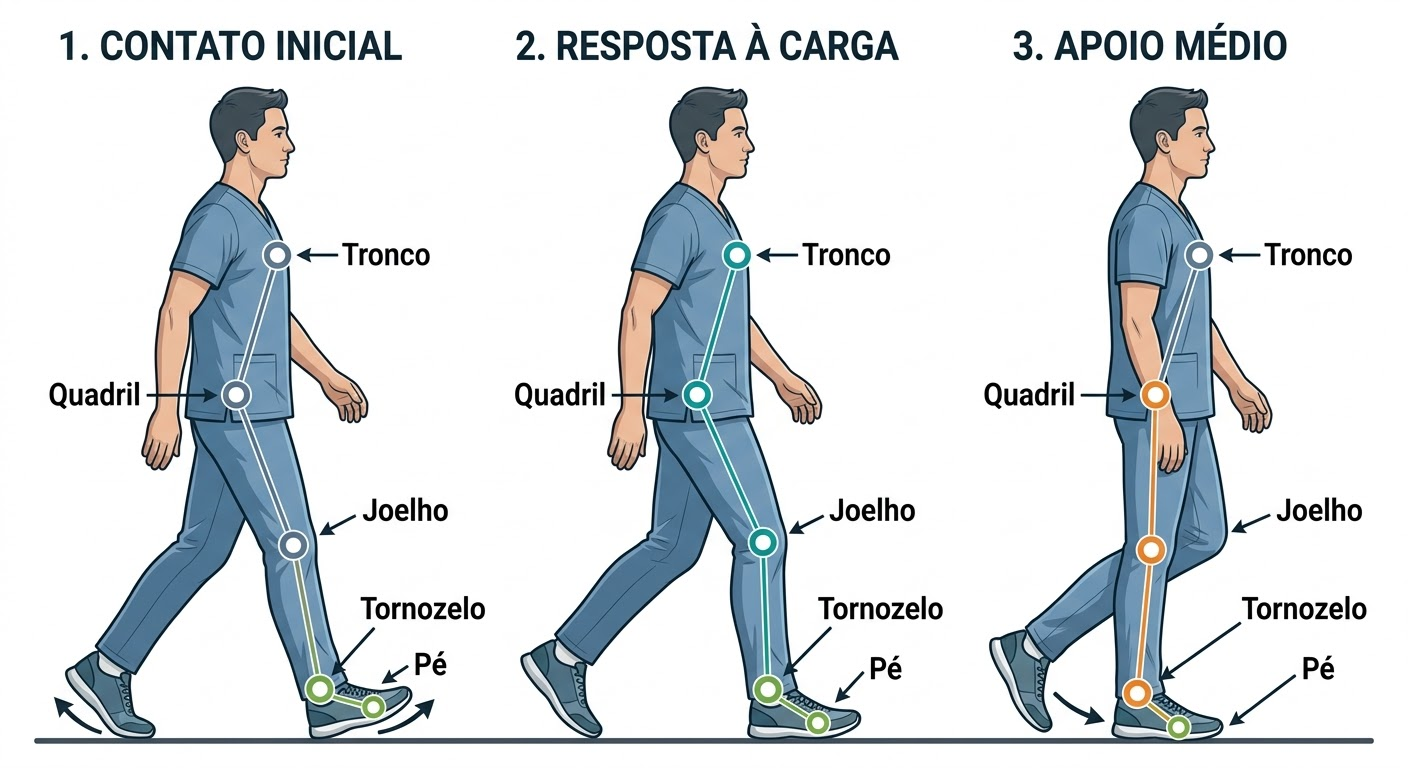
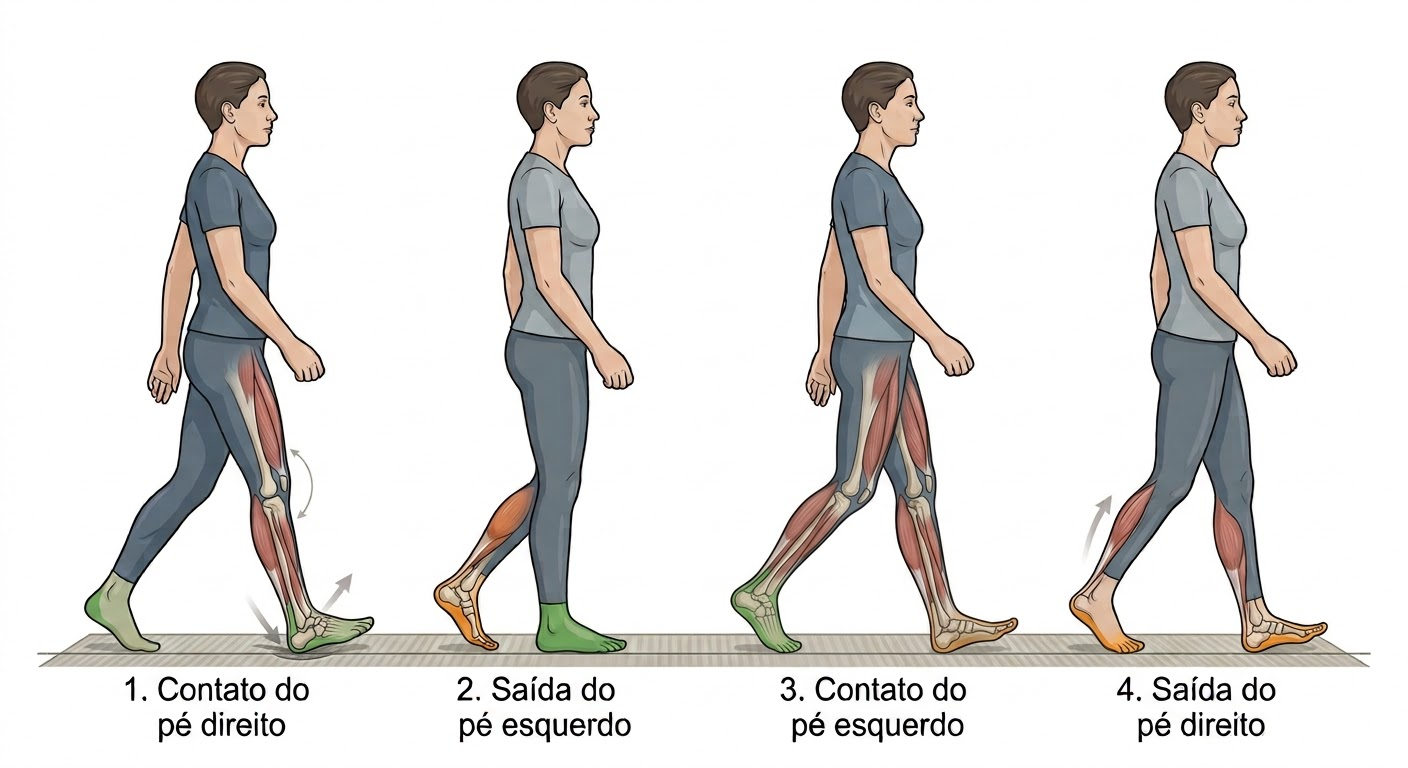
marcha: quatro eventos, parametros temporais e nova imagem de referencia

diff --git a/src/screens/VideoEditScreen.tsx b/src/screens/VideoEditScreen.tsx
@@ -11,7 +11,7 @@ import { Observacao } from '../services/observacoes';
 import MarcadorComLupa from '../components/MarcadorComLupa';
 import * as VideoThumbnails from 'expo-video-thumbnails';
 import { FASES_MARCHA, PONTOS_FASE } from '../constants/fasesMarcha';
-import { calcularFase, PontosFase } from '../services/marchaCalculations';
+import { calcularFase, calcularParametrosTemporais, PontosFase } from '../services/marchaCalculations';
 
 const VIDEO_HEIGHT = Dimensions.get('window').height * 0.38;
 const VIDEO_WIDTH = Dimensions.get('window').width - 32;
@@ -197,6 +197,7 @@ export default function VideoEditScreen({ route, navigation }: any) {
   // Referencia da area do video, usada para capturar o frame com as marcacoes
   const areaVideoRef = React.useRef<any>(null);
   const [framesFases, setFramesFases] = useState<Record<string, string>>({});
+  const [temposFases, setTemposFases] = useState<Record<string, number>>({});
 
   const confirmarFase = async () => {
     // Captura o frame atual do video com os pontos e linhas ja desenhados,
@@ -215,6 +216,9 @@ export default function VideoEditScreen({ route, navigation }: any) {
       console.error('Erro ao capturar frame da fase:', e);
     }
 
+    // Guarda o instante do evento: e a partir dos tempos que saem a cadencia
+    // e a simetria entre os lados, sem depender de escala espacial.
+    setTemposFases(prev => ({ ...prev, [fase.id]: player.currentTime || 0 }));
     setMarcacoes({ ...marcacoes, [fase.id]: pontosFaseAtual });
     setPontosFaseAtual({});
     if (faseIndice < FASES_MARCHA.length - 1) setFaseIndice(faseIndice + 1);
@@ -225,8 +229,8 @@ export default function VideoEditScreen({ route, navigation }: any) {
       const dataHoje = new Date().toLocaleDateString('pt-BR');
       const videoPermanente = await salvarMidiaPermanente(videoUri);
       db.runSync(
-        'INSERT INTO avaliacoes (id_paciente, angulo, data_avaliacao, video_uri, marcacoes_json, frames_json, dimensoes_json, observacoes_json, pisada_json) VALUES (?, ?, ?, ?, ?, ?, ?, ?, ?)',
-        [pacienteId, angulo, dataHoje, videoPermanente, JSON.stringify(marcacoes), JSON.stringify(framesFases), JSON.stringify({ largura: areaVideo.largura, altura: areaVideo.altura }), JSON.stringify(observacoesPorFase), JSON.stringify(pisada)]
+        'INSERT INTO avaliacoes (id_paciente, angulo, data_avaliacao, video_uri, marcacoes_json, frames_json, dimensoes_json, observacoes_json, pisada_json, tempos_json) VALUES (?, ?, ?, ?, ?, ?, ?, ?, ?, ?)',
+        [pacienteId, angulo, dataHoje, videoPermanente, JSON.stringify(marcacoes), JSON.stringify(framesFases), JSON.stringify({ largura: areaVideo.largura, altura: areaVideo.altura }), JSON.stringify(observacoesPorFase), JSON.stringify(pisada), JSON.stringify(temposFases)]
       );
       const nova = db.getFirstSync('SELECT last_insert_rowid() as id') as { id: number };
       Alert.alert('Sucesso', 'Avaliacao salva! Deseja gerar o relatorio em PDF?', [
@@ -382,6 +386,41 @@ export default function VideoEditScreen({ route, navigation }: any) {
         </View>
       ) : (
         <View>
+          {(() => {
+            const t = calcularParametrosTemporais(temposFases);
+            if (t.cadencia === null) return null;
+            return (
+              <View style={styles.blocoTemporal}>
+                <Text style={styles.blocoTemporalTitulo}>Parâmetros Temporais</Text>
+                <View style={styles.linhaTemporal}>
+                  <Text style={styles.temporalRotulo}>Cadência</Text>
+                  <Text style={styles.temporalValor}>{t.cadencia} passos/min</Text>
+                </View>
+                <View style={styles.linhaTemporal}>
+                  <Text style={styles.temporalRotulo}>Duração do ciclo</Text>
+                  <Text style={styles.temporalValor}>{t.duracaoCiclo}s</Text>
+                </View>
+                <View style={styles.linhaTemporal}>
+                  <Text style={styles.temporalRotulo}>Apoio direito</Text>
+                  <Text style={styles.temporalValor}>{t.apoioDireito}s</Text>
+                </View>
+                <View style={styles.linhaTemporal}>
+                  <Text style={styles.temporalRotulo}>Apoio esquerdo</Text>
+                  <Text style={styles.temporalValor}>{t.apoioEsquerdo}s</Text>
+                </View>
+                <View style={styles.linhaTemporal}>
+                  <Text style={styles.temporalRotulo}>Assimetria de apoio</Text>
+                  <Text style={[styles.temporalValor, t.alertaSimetria && styles.temporalAlerta]}>
+                    {t.simetria}%
+                  </Text>
+                </View>
+                <Text style={styles.temporalNota}>
+                  Assimetria acima de 10% é habitualmente descrita como relevante.
+                </Text>
+              </View>
+            );
+          })()}
+
           <ResumoMarcha marcacoes={marcacoes} area={areaVideo} />
           <Text style={styles.tituloResultado}>Resultado por Fase</Text>
           {FASES_MARCHA.map(f => (
@@ -452,6 +491,13 @@ function Segmentos({ pontos }: { pontos: PontosFase }) {
 }
 
 const styles = StyleSheet.create({
+  blocoTemporal: { backgroundColor: '#F8FAFC', borderRadius: 12, padding: 14, marginBottom: 14, borderWidth: 1, borderColor: '#E2E8F0' },
+  blocoTemporalTitulo: { fontSize: 14, fontWeight: '700', color: '#0F172A', marginBottom: 10 },
+  linhaTemporal: { flexDirection: 'row', justifyContent: 'space-between', paddingVertical: 5 },
+  temporalRotulo: { fontSize: 13, color: '#64748B' },
+  temporalValor: { fontSize: 13, fontWeight: '700', color: '#0F172A' },
+  temporalAlerta: { color: '#F59E0B' },
+  temporalNota: { fontSize: 11, color: '#94A3B8', marginTop: 8, lineHeight: 15 },
   container: { flex: 1, backgroundColor: '#F8FAFC' },
   resumoCard: { padding: 14, borderRadius: 14, marginBottom: 16, borderWidth: 1 },
   resumoOk: { backgroundColor: '#F0FDF4', borderColor: '#BBF7D0' },

diff --git a/src/constants/fasesMarcha.ts b/src/constants/fasesMarcha.ts
@@ -15,9 +15,9 @@ export interface FaseMarcha {
 
 export const FASES_MARCHA: FaseMarcha[] = [
   {
-    id: 'contato_inicial',
-    nome: 'Contato Inicial',
-    descricao: 'Momento em que o pe toca o solo pela primeira vez',
+    id: 'contato_direito',
+    nome: 'Contato do Pe Direito',
+    descricao: 'Calcanhar direito toca o solo. Inicio do ciclo.',
     referencias: {
       quadril: { min: 15, max: 25, texto: '20 graus de flexao' },
       joelho: { min: 0, max: 5, texto: 'extensao completa' },
@@ -25,23 +25,33 @@ export const FASES_MARCHA: FaseMarcha[] = [
     },
   },
   {
-    id: 'resposta_carga',
-    nome: 'Resposta a Carga',
-    descricao: 'Absorcao do impacto, logo apos o contato inicial',
+    id: 'saida_esquerdo',
+    nome: 'Saida do Pe Esquerdo',
+    descricao: 'Ponta do pe esquerdo deixa o solo. Fim do apoio duplo.',
     referencias: {
-      quadril: { min: 15, max: 25, texto: '20 graus de flexao' },
-      joelho: { min: 10, max: 20, texto: '15 graus de flexao' },
-      tornozelo: { min: -10, max: 0, texto: 'leve flexao plantar' },
+      quadril: { min: -20, max: -5, texto: 'extensao' },
+      joelho: { min: 30, max: 45, texto: '35 a 40 graus de flexao' },
+      tornozelo: { min: -25, max: -10, texto: 'flexao plantar' },
     },
   },
   {
-    id: 'apoio_medio',
-    nome: 'Apoio Medio',
-    descricao: 'Corpo passa sobre o pe de apoio',
+    id: 'contato_esquerdo',
+    nome: 'Contato do Pe Esquerdo',
+    descricao: 'Calcanhar esquerdo toca o solo. Metade do ciclo.',
     referencias: {
-      quadril: { min: -5, max: 10, texto: 'proximo do neutro' },
-      joelho: { min: 0, max: 10, texto: 'proximo da extensao' },
-      tornozelo: { min: 3, max: 10, texto: '5 graus de dorsiflexao' },
+      quadril: { min: 15, max: 25, texto: '20 graus de flexao' },
+      joelho: { min: 0, max: 5, texto: 'extensao completa' },
+      tornozelo: { min: -5, max: 5, texto: 'neutro' },
+    },
+  },
+  {
+    id: 'saida_direito',
+    nome: 'Saida do Pe Direito',
+    descricao: 'Ponta do pe direito deixa o solo.',
+    referencias: {
+      quadril: { min: -20, max: -5, texto: 'extensao' },
+      joelho: { min: 30, max: 45, texto: '35 a 40 graus de flexao' },
+      tornozelo: { min: -25, max: -10, texto: 'flexao plantar' },
     },
   },
 ];

diff --git a/src/services/marchaCalculations.ts b/src/services/marchaCalculations.ts
@@ -87,3 +87,62 @@ export function calcularFase(
 
   return resultado;
 }
+
+export interface ParametrosTemporais {
+  cadencia: number | null;
+  duracaoCiclo: number | null;
+  apoioDireito: number | null;
+  apoioEsquerdo: number | null;
+  simetria: number | null;
+  alertaSimetria: boolean;
+}
+
+/**
+ * Parametros temporais da marcha, obtidos apenas dos instantes marcados no
+ * video. Nao dependem de escala espacial, ao contrario de comprimento do passo
+ * e velocidade, e por isso sao mensuraveis com video de celular.
+ *
+ * Assimetria de tempo de apoio acima de 10 por cento e habitualmente descrita
+ * como relevante na literatura de marcha patologica.
+ */
+export function calcularParametrosTemporais(
+  tempos: Record<string, number>,
+): ParametrosTemporais {
+  const cd = tempos['contato_direito'];
+  const se = tempos['saida_esquerdo'];
+  const ce = tempos['contato_esquerdo'];
+  const sd = tempos['saida_direito'];
+
+  const vazio: ParametrosTemporais = {
+    cadencia: null, duracaoCiclo: null, apoioDireito: null,
+    apoioEsquerdo: null, simetria: null, alertaSimetria: false,
+  };
+  if ([cd, se, ce, sd].some(t => typeof t !== 'number')) return vazio;
+
+  // Do contato direito ate a saida direita: tempo de apoio do pe direito.
+  const apoioDireito = Number((sd - cd).toFixed(2));
+  // Do contato esquerdo ate a saida esquerda. Quando a saida esquerda vem
+  // antes do contato esquerdo, ela pertence ao passo anterior.
+  const apoioEsquerdo = Number((se > ce ? se - ce : (ce - se)).toFixed(2));
+
+  // Meio ciclo: contato de um pe ate o contato do outro.
+  const meioCiclo = Math.abs(ce - cd);
+  const duracaoCiclo = meioCiclo > 0 ? Number((meioCiclo * 2).toFixed(2)) : null;
+  const cadencia = duracaoCiclo && duracaoCiclo > 0
+    ? Number((120 / duracaoCiclo).toFixed(0))
+    : null;
+
+  const soma = apoioDireito + apoioEsquerdo;
+  const simetria = soma > 0
+    ? Number(((Math.abs(apoioDireito - apoioEsquerdo) / soma) * 100).toFixed(1))
+    : null;
+
+  return {
+    cadencia,
+    duracaoCiclo,
+    apoioDireito,
+    apoioEsquerdo,
+    simetria,
+    alertaSimetria: simetria !== null && simetria > 10,
+  };
+}

diff --git a/src/services/database.ts b/src/services/database.ts
@@ -227,6 +227,13 @@ export const initDatabase = () => {
       // coluna ja existe - ignora
     }
 
+    // Instantes de cada evento da marcha, para cadencia e simetria temporal.
+    try {
+      db.execSync('ALTER TABLE avaliacoes ADD COLUMN tempos_json TEXT');
+    } catch {
+      // coluna ja existe - ignora
+    }
+
     // Circulos de desajuste marcados pelo terapeuta sobre o frame da marcha.
     try {
       db.execSync('ALTER TABLE avaliacoes ADD COLUMN observacoes_json TEXT');
